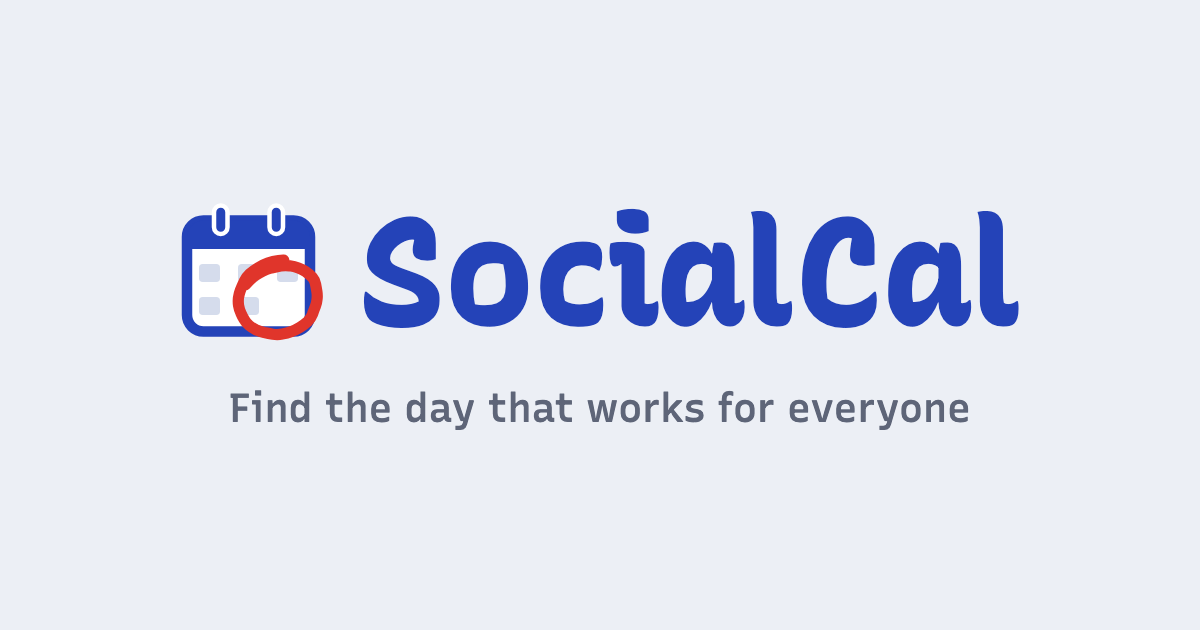
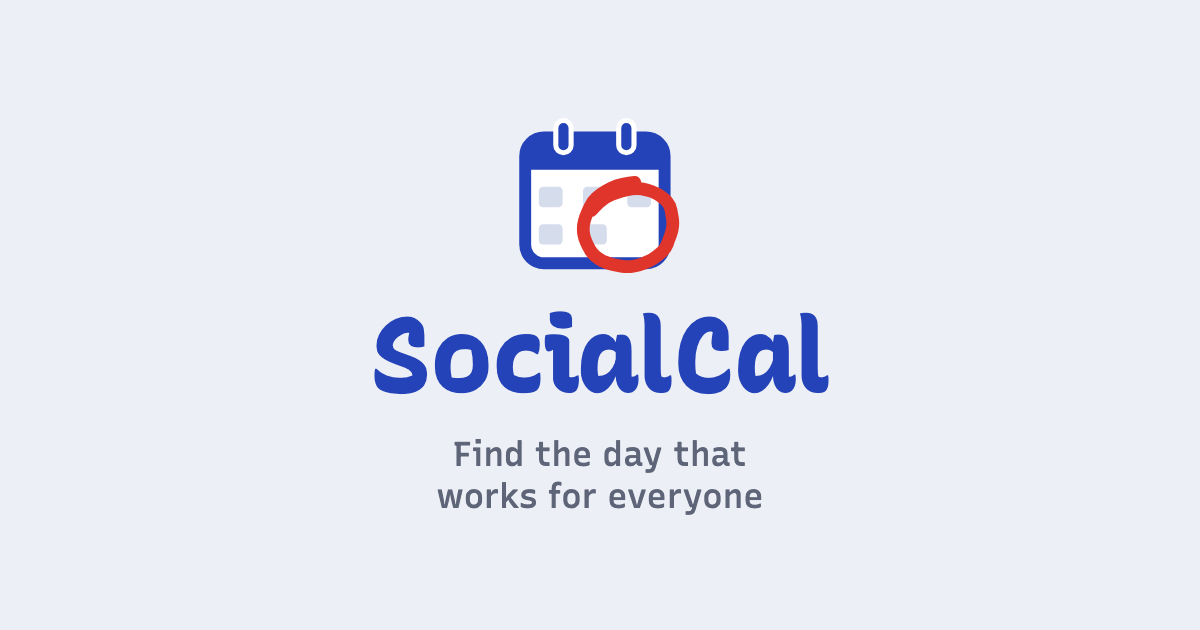
style: stack the preview image lockup so square crops keep it whole

Changed region(s): [[0.1233, 0.181, 0.8633, 0.8143]]

diff --git a/scripts/og-image.html b/scripts/og-image.html
@@ -13,28 +13,26 @@
       .frame {
         width: 1200px; height: 630px; background: #ECEFF5;
         display: flex; flex-direction: column; align-items: center; justify-content: center;
+        text-align: center;
         font-family: 'Recursive', sans-serif;
       }
-      .lockup { display: flex; align-items: center; gap: 28px; }
-      .lockup img { width: 150px; height: 150px; }
+      .frame img { width: 170px; height: 170px; }
       .wordmark {
-        font-size: 150px; line-height: 1; font-weight: 800; color: #2443B8; letter-spacing: -0.01em;
+        margin-top: 22px; font-size: 104px; line-height: 1; font-weight: 800; color: #2443B8; letter-spacing: -0.01em;
         font-variation-settings: "CASL" 1, "MONO" 0, "CRSV" 1;
       }
       .tagline {
-        margin-top: 36px; font-size: 40px; font-weight: 500; color: #5E6578;
+        margin-top: 26px; font-size: 34px; line-height: 1.25; font-weight: 500; color: #5E6578;
         font-variation-settings: "CASL" 0, "MONO" 0, "CRSV" 0.5;
       }
     </style>
   </head>
   <body>
     <div class="frame">
-      <div class="lockup">
-        <!-- An <img>, not inline markup: the SVG's own <style> uses global class names. -->
-        <img src="../public/favicon.svg" alt="" />
-        <div class="wordmark">SocialCal</div>
-      </div>
-      <div class="tagline">Find the day that works for everyone</div>
+      <!-- An <img>, not inline markup: the SVG's own <style> uses global class names. -->
+      <img src="../public/favicon.svg" alt="" />
+      <div class="wordmark">SocialCal</div>
+      <div class="tagline">Find the day that<br />works for everyone</div>
     </div>
   </body>
 </html>
